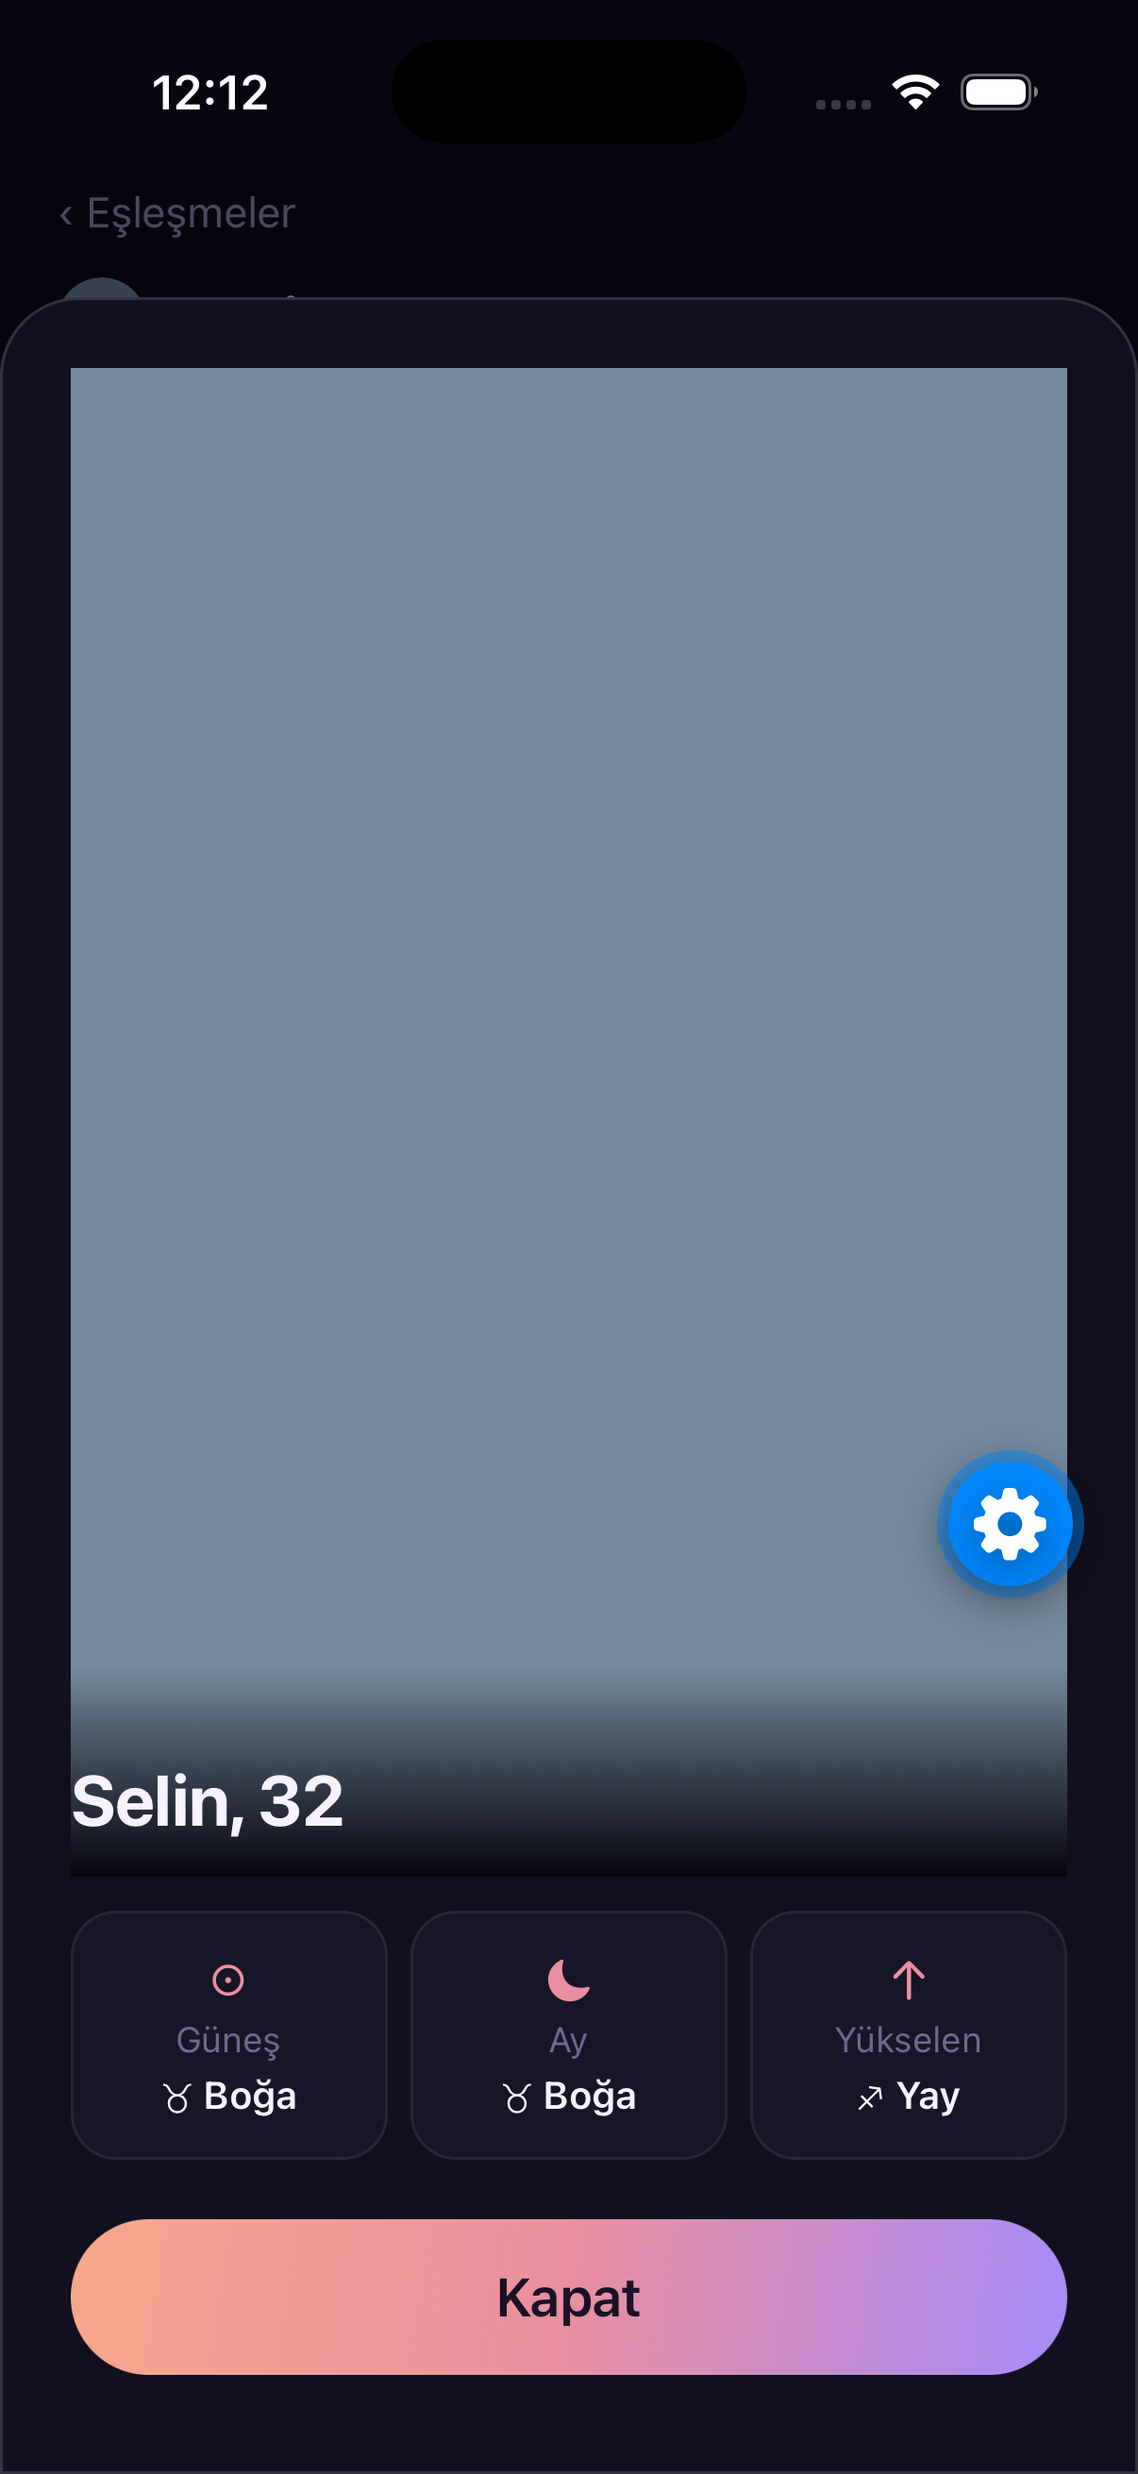
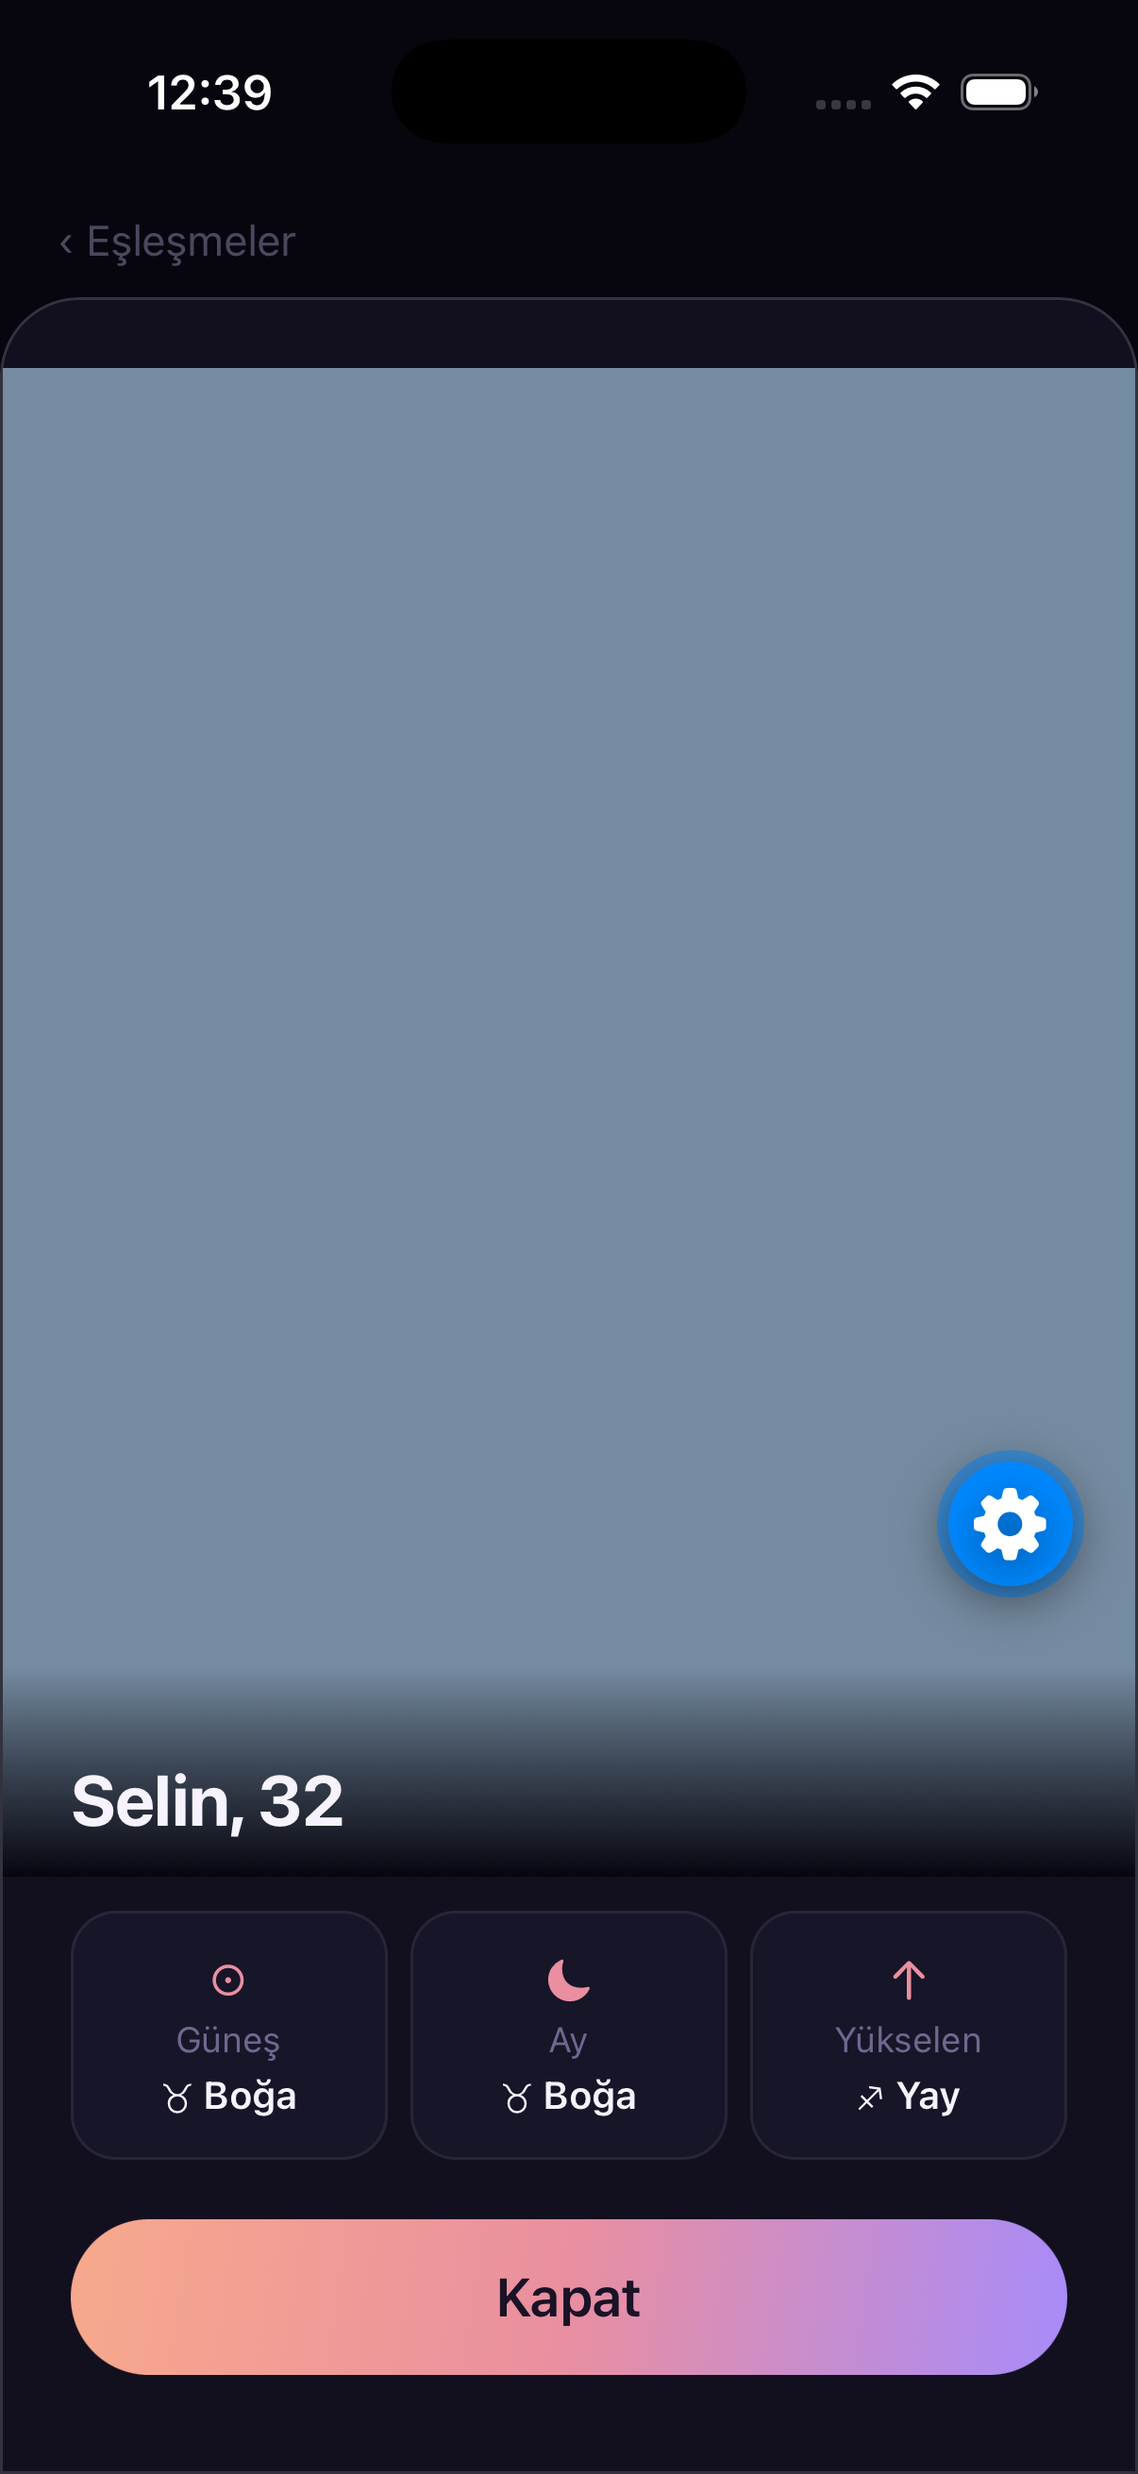
fix: the review's two real findings in the second pass
A popup is not a screen. Screen keeps its gutter on the scroll view's
content container, so a child cancelling it with a negative margin grows
into the frame; Popup kept the same measurement on the sheet view, with
the scroll view inside it, so ProfileView's carousel was pushed out of
bounds and clipped. The person popup showed the gutter the owner asked
to remove and cropped 12% off the photo. Popup now pads its title,
scroll content and action row, and ProfileView states what it needs from
a host rather than relying on two files agreeing on a number.

The Ascendant's degree used raw `longitude % 30`, which toPublicChart
avoids for planets because float modulo is inexact; roughly one chart in
1,650 printed an arcminute low. Both go through degreeInSign now, with
the trap value pinned in a test.

Also: the dimension chips let a name wrap inside the chip instead of
truncating to "Yakınlı…" at large Dynamic Type; the chat header's top
padding is the safe-area inset; and the accessibility label for opening
a profile drops the chevron it no longer earns.

Changed region(s): [[0.9204, 0.1236, 1.0, 0.7414], [0.0, 0.1236, 0.0614, 0.7414], [0.0614, 0.0309, 0.2454, 0.1236]]

diff --git a/apps/mobile/components/CompatibilityDetail.tsx b/apps/mobile/components/CompatibilityDetail.tsx
@@ -53,9 +53,7 @@ export function CompatibilityDetail({
                 style={styles.dimensionChip}
                 testID={`dimension-${d.dimension}`}
               >
-                <Text style={styles.dimensionName} numberOfLines={1}>
-                  {d.name}
-                </Text>
+                <Text style={styles.dimensionName}>{d.name}</Text>
                 {/* Bars, not the level word; the word stays as the
                     meter's accessibility label. No number reaches a Text
                     (ADR-0009). */}
@@ -175,11 +173,17 @@ const styles = StyleSheet.create({
   body: { ...type.body, color: color.text },
   bodyMuted: { ...type.bodySmall, color: color.textMuted },
   // Five chips, one row, equal widths (owner, 2026-09-12: the longest
-  // name was pushing Gelişim onto a second line). They share the width
-  // rather than wrapping, so the padding is what gives way.
-  dimensionRow: { flexDirection: 'row', gap: space.sm },
+  // name was pushing Gelişim onto a second line). `flexBasis` rather than
+  // `flex: 1`, and the name may take two lines inside its chip: at a
+  // large Dynamic Type setting a fixed single line would come back as
+  // "Yakınlı…" on all five, which is the same complaint in a worse form.
+  // `flexWrap` is kept as the escape hatch for a width that cannot hold
+  // five chips at all — five basis widths and four gaps need 322pt, and
+  // the narrowest phone this ships to leaves 327.
+  dimensionRow: { flexDirection: 'row', flexWrap: 'wrap', gap: space.sm },
   dimensionChip: {
-    flex: 1,
+    flexGrow: 1,
+    flexBasis: 58,
     alignItems: 'center',
     backgroundColor: color.surfaceSoft,
     borderRadius: radius.sm,
@@ -189,7 +193,11 @@ const styles = StyleSheet.create({
     paddingHorizontal: space.xs,
     gap: space.xs,
   },
-  dimensionName: { ...type.caption, color: color.textFaint },
+  dimensionName: {
+    ...type.caption,
+    color: color.textFaint,
+    textAlign: 'center',
+  },
   aspectLine: { gap: 2 },
   aspect: {
     backgroundColor: color.surface,

diff --git a/apps/mobile/components/Popup.tsx b/apps/mobile/components/Popup.tsx
@@ -8,7 +8,7 @@ import {
   View,
 } from 'react-native';
 import { useSafeAreaInsets } from 'react-native-safe-area-context';
-import { GradientButton } from '@/components/ui';
+import { GradientButton, SCREEN_PADDING } from '@/components/ui';
 import { t } from '@/lib/strings';
 import { color, radius, space, type } from '@/theme/tokens';
 
@@ -69,6 +69,12 @@ export function Popup({
           {title === undefined ? null : (
             <Text style={styles.title}>{title}</Text>
           )}
+          {/* The gutter belongs to the scroll view's content, not to the
+              sheet: on the sheet it clips, and a child that cancels it to
+              run edge to edge (ProfileView's carousel) would lose that
+              much of itself off both sides instead of growing into it.
+              Same measurement as `Screen`, so a component laid out for
+              one host is laid out for the other. */}
           <ScrollView
             style={styles.body}
             contentContainerStyle={styles.bodyContent}
@@ -107,12 +113,21 @@ const styles = StyleSheet.create({
     borderWidth: 1,
     borderColor: color.borderStrong,
     paddingTop: space.xl,
-    paddingHorizontal: space.xl,
+    overflow: 'hidden',
   },
-  title: { ...type.title, color: color.text, marginBottom: space.md },
+  title: {
+    ...type.title,
+    color: color.text,
+    marginBottom: space.md,
+    paddingHorizontal: SCREEN_PADDING,
+  },
   // `flexGrow: 0` so a short sheet is short; `flexShrink: 1` so a long one
   // scrolls inside the sheet instead of pushing the button off the screen.
   body: { flexGrow: 0, flexShrink: 1 },
-  bodyContent: { gap: space.md, paddingBottom: space.md },
-  action: { paddingTop: space.md },
+  bodyContent: {
+    gap: space.md,
+    paddingHorizontal: SCREEN_PADDING,
+    paddingBottom: space.md,
+  },
+  action: { paddingTop: space.md, paddingHorizontal: SCREEN_PADDING },
 });

diff --git a/packages/astro/src/public.test.ts b/packages/astro/src/public.test.ts
@@ -2,6 +2,7 @@ import { describe, expect, it } from 'vitest';
 import { PLANETS } from './bodies';
 import { computeChart } from './chart';
 import { PublicChartSchema, bigThree, toPublicChart } from './public';
+import { degreeInSign } from './signs';
 import { describeAspectTr, formatDegree, natalAspectTitleTr } from './tr';
 import istanbul from './__fixtures__/istanbul-1995.json';
 
@@ -9,6 +10,26 @@ const chart = computeChart({
   utc: new Date(istanbul.input.utc),
   latitude: istanbul.input.latitude,
   longitude: istanbul.input.longitude,
+});
+
+describe('degreeInSign', () => {
+  // Both the planet degrees in `toPublicChart` and the Ascendant's in
+  // `natalReading` go through this; raw `% 30` is inexact and
+  // `formatDegree` floors, so an arcminute goes missing about once in
+  // 1,650 charts. A displayed degree is meant to match astro.com
+  // (ADR-0009), so the rounding is part of the contract.
+  it('rounds away the float modulo that would print a minute low', () => {
+    expect(30.15 % 30).toBeLessThan(0.15); // the trap
+    expect(degreeInSign(30.15)).toBe(0.15);
+    expect(formatDegree(degreeInSign(30.15))).toBe('0°09′');
+    expect(formatDegree(30.15 % 30)).toBe('0°08′');
+  });
+
+  it('folds a longitude into its own sign', () => {
+    expect(degreeInSign(0)).toBe(0);
+    expect(degreeInSign(359.9)).toBe(29.9);
+    expect(degreeInSign(-1)).toBe(29);
+  });
 });
 
 describe('toPublicChart', () => {

diff --git a/packages/astro/src/summary.ts b/packages/astro/src/summary.ts
@@ -46,7 +46,7 @@ import {
 } from './content';
 import { houseOf, type Cusps, type HouseNumber } from './houses';
 import type { PublicChart } from './public';
-import { signOf } from './signs';
+import { degreeInSign, signOf } from './signs';
 import {
   BODY_TR,
   SIGN_TR_LOCATIVE,
@@ -126,10 +126,11 @@ export function natalReading(chart: PublicChart, limit = 8): NatalReading {
     const ascendant = placement === 'ascendant';
     const sign = ascendant ? rising : chart.planets[placement].sign;
     const house = ascendant ? null : chart.planets[placement].house;
-    // The Ascendant is stored as an absolute longitude, a planet as its
-    // degree within its own sign; a sign is 30° wide.
+    // The Ascendant is stored as an absolute longitude, a planet as the
+    // degree within its own sign that `toPublicChart` already reduced —
+    // through the same helper, so the two cannot round differently.
     const degree = ascendant
-      ? chart.houses.ascendant % 30
+      ? degreeInSign(chart.houses.ascendant)
       : chart.planets[placement].degree;
     return {
       placement,

diff --git a/packages/astro/src/public.ts b/packages/astro/src/public.ts
@@ -1,7 +1,7 @@
 import { z } from 'zod';
 import { PLANETS, type Planet } from './bodies';
 import type { Chart } from './chart';
-import { SIGNS, signOf } from './signs';
+import { SIGNS, degreeInSign, signOf } from './signs';
 
 /**
  * The chart as stored in `profiles.chart` and shown to other users:
@@ -73,9 +73,7 @@ export function toPublicChart(chart: Chart): PublicChart {
       // Derived from the rounded longitude so sign, degree and longitude
       // stay mutually consistent at a sign boundary (29.99996 → 0 next sign).
       sign: signOf(longitude),
-      // Rounded again: float modulo of a 4-decimal value is inexact
-      // (30.15 % 30 = 0.14999999999999858 would print 0°08′).
-      degree: Number((longitude % 30).toFixed(4)),
+      degree: degreeInSign(longitude),
       house: p.house,
       retrograde: p.retrograde,
     };

diff --git a/apps/mobile/components/ProfileView.tsx b/apps/mobile/components/ProfileView.tsx
@@ -384,9 +384,13 @@ function Arrow({
 }
 
 const styles = StyleSheet.create({
-  // Edge to edge (owner, 2026-09-12): the photo cancels the screen's
-  // gutter on both sides, and loses its corner radius with it — a rounded
-  // corner against the screen edge reads as a mistake.
+  // Edge to edge (owner, 2026-09-12): the photo cancels the gutter on
+  // both sides, and loses its corner radius with it — a rounded corner
+  // against the screen edge reads as a mistake. This is a contract with
+  // whatever renders a ProfileView: the host must keep `SCREEN_PADDING`
+  // on a scroll view's *content*, as `Screen` and `Popup` both do, so
+  // the negative margin grows into the frame rather than out of it,
+  // where a scroll view would clip it.
   carousel: {
     alignSelf: 'stretch',
     marginHorizontal: -SCREEN_PADDING,

diff --git a/apps/mobile/app/(tabs)/(matches)/chat/[id].tsx b/apps/mobile/app/(tabs)/(matches)/chat/[id].tsx
@@ -248,7 +248,7 @@ function ChatView({
 
   return (
     <View style={styles.screen} testID="chat-screen">
-      <View style={styles.header}>
+      <View style={[styles.header, { paddingTop: insets.top + space.xs }]}>
         <BackLink
           label={t.chat.backToMatches}
           fallback="/matches"
@@ -534,8 +534,10 @@ const styles = StyleSheet.create({
     gap: 12,
     backgroundColor: color.bg,
   },
+  // `paddingTop` comes from the safe-area inset at the call site: the
+  // back link is the topmost thing on the screen now, and a hardcoded
+  // number puts its hit area under the Dynamic Island.
   header: {
-    paddingTop: 56,
     paddingHorizontal: 20,
     borderBottomWidth: 1,
     borderBottomColor: color.border,

diff --git a/packages/astro/src/signs.ts b/packages/astro/src/signs.ts
@@ -42,6 +42,17 @@ export function signOf(longitude: number): Sign {
   return sign;
 }
 
+/**
+ * Degrees into the sign for an ecliptic longitude, rounded to four
+ * decimals. The rounding is the point: float modulo of a 4-decimal value
+ * is inexact (30.15 % 30 = 0.14999999999999858, which `formatDegree`
+ * floors to 0°08′ instead of 0°09′), and a degree on screen is meant to
+ * agree with astro.com (ADR-0009).
+ */
+export function degreeInSign(longitude: number): number {
+  return Number((normalizeDegrees(longitude) % 30).toFixed(4));
+}
+
 /** Signed angular difference folded into [-180, 180). */
 export function signedDelta(deg: number): number {
   const d = normalizeDegrees(deg);

diff --git a/apps/mobile/lib/strings.ts b/apps/mobile/lib/strings.ts
@@ -222,7 +222,7 @@ export const t = {
     back: '‹ Keşfet',
     gone: 'Bu profil artık görünmüyor.',
     openMatch: 'Uyum detayı ›',
-    openProfile: (name: string) => `${name} profilini aç ›`,
+    openProfile: (name: string) => `${name} profilini aç`,
     chartTitle: (name: string) => `${name} haritası`,
     fullChart: 'Tüm haritasını gör',
   },

diff --git a/packages/astro/src/index.ts b/packages/astro/src/index.ts
@@ -68,6 +68,7 @@ export {
 } from './houses';
 export {
   SIGNS,
+  degreeInSign,
   normalizeDegrees,
   signOf,
   signedDelta,

diff --git a/docs/NOTES.md b/docs/NOTES.md
@@ -3664,15 +3664,17 @@ primary cards the profile had not shown — and then start again at the
 Sun as a second, differently shaped `PLANETLER` list. `PRIMARY_PLACEMENTS`
 (six) is gone; `PLACEMENTS` is all eleven bodies in profile order and
 `natalReading` returns one `placements` array in the card shape. The
-profile slices the first three, the popup renders all of them. Nothing
-was lost with the deleted list: the popup's cards carry the degree and
-the retrograde mark in their technical line (`degree` prop on
-`PlacementCard`), and the retrograde paragraph moved onto the card. The
+profile slices the first three, the popup renders all of them. Everything the
+deleted list carried but one thing is on the cards: the degree and the
+retrograde mark went into the technical line (`degree` prop on
+`PlacementCard`) and the retrograde paragraph onto the card. The one
+loss is the sign's glyph beside its name (♏ Akrep), which the card
+writes out in words instead. The
 outer five needed names in the product's own language, beside Çekirdek
 benlik and Duygusal dünya: Seni ne büyütür, Neyi ciddiye alırsın, Seni ne
 özgürleştirir, Neyi hayal edersin, Neyi dönüştürürsün. The section label
-started as "HARİTAN BAŞTAN SONA" and was neutralised to "HARİTA" the
-moment it appeared over someone else's chart.
+started as "HARİTAN BAŞTAN SONA" and lost the possessive — "HARİTA
+BAŞTAN SONA" — the moment it appeared over someone else's chart.
 
 **Edge to edge.** `Screen`'s gutter is now `SCREEN_PADDING`, exported so
 a child can cancel exactly it; the profile carousel does, and drops its
@@ -3697,3 +3699,37 @@ can push one down alone.
 **Left in the local database on purpose:** the report row filed against
 Selin at 16:09:09Z while proving item 5, and Sumeyye's placeholder photo.
 Both are test data the owner can clear; deleting rows is ask-tier.
+
+## 2026-09-12 — what the review of the second pass caught
+
+Two findings worth the round trip, both invisible to the battery.
+
+**A popup is not a screen, and the equal numbers hid it.** `Screen` keeps
+its gutter on the scroll view's _content container_, so `ProfileView`'s
+carousel with `marginHorizontal: -SCREEN_PADDING` grows into the frame.
+`Popup` kept the same measurement on the _sheet view_, with the scroll
+view inside it — so the same margin pushed the carousel 24pt out of the
+scroll view's bounds on each side, where `UIScrollView` clips it. The
+person popup therefore showed the gutter the owner had asked to remove
+_and_ cropped 12% off the photo's width, while the identical component
+on the profile tab was right. `Popup` now carries the gutter on its
+title, its scroll content and its action row, and `ProfileView` states
+the requirement it places on a host instead of leaving it to a matching
+number in two files.
+
+**The Ascendant's degree could print an arcminute low.** `toPublicChart`
+rounds `longitude % 30` to four decimals precisely because float modulo
+is inexact, and the new placement list reintroduced the raw modulo for
+the Ascendant alone — about one chart in 1,650 would have disagreed with
+astro.com by a minute, which ADR-0009 makes a real defect. Both paths go
+through `degreeInSign` now, and `public.test.ts` pins the trap value
+(30.15) rather than only the printed format.
+
+Smaller things taken in the same pass: the dimension chips use
+`flexBasis` and let a name wrap inside its chip, because a fixed single
+line came back as "Yakınlı…" on all five at a large Dynamic Type
+setting — the owner's complaint in a worse form; the chat header's top
+padding comes from the safe-area inset rather than a number that put the
+back link's hit area under the Dynamic Island; and
+`t.person.openProfile` lost the "›" it no longer earns now that it is
+only an accessibility label.

diff --git a/docs/ROADMAP.md b/docs/ROADMAP.md
@@ -953,8 +953,9 @@ each item lands with its own screenshot.
       _Done. `s2-person-popup.png` — the popup over the thread, photo,
       name and age, big three; scrolled, it carries the bio, the three
       cards and "Tüm haritasını gör", which opens the chart as a second
-      sheet over the first (nested `Modal`, checked on the device).
-      `s5-report-popup.png` shows the Uyum page without the old link._
+      sheet over the first (nested `Modal`, checked on the device). The
+      Uyum page's own evidence is `s5-uyum-no-profile-link.png`: safety
+      follows the elements section with nothing between them._
 
 - [x] **3 — the full chart reads once, from the start, in one format.**
       Today the popup opens on Mercury (the three primary cards the
@@ -965,7 +966,7 @@ each item lands with its own screenshot.
       three cards on the profile use. `ChartDetail` renders that one
       list and the separate `PLANETLER` section goes. The outer five
       need dating-language names of their own in
-      `packages/astro/content/placements.json`, beside Çekirdek benlik
+      `packages/astro/content/tr/placements.json`, beside Çekirdek benlik
       and Duygusal dünya.
       _Done. `PLACEMENTS` has eleven entries and `content.test.ts`
       asserts a distinct label for each; `summary.test.ts` asserts the
